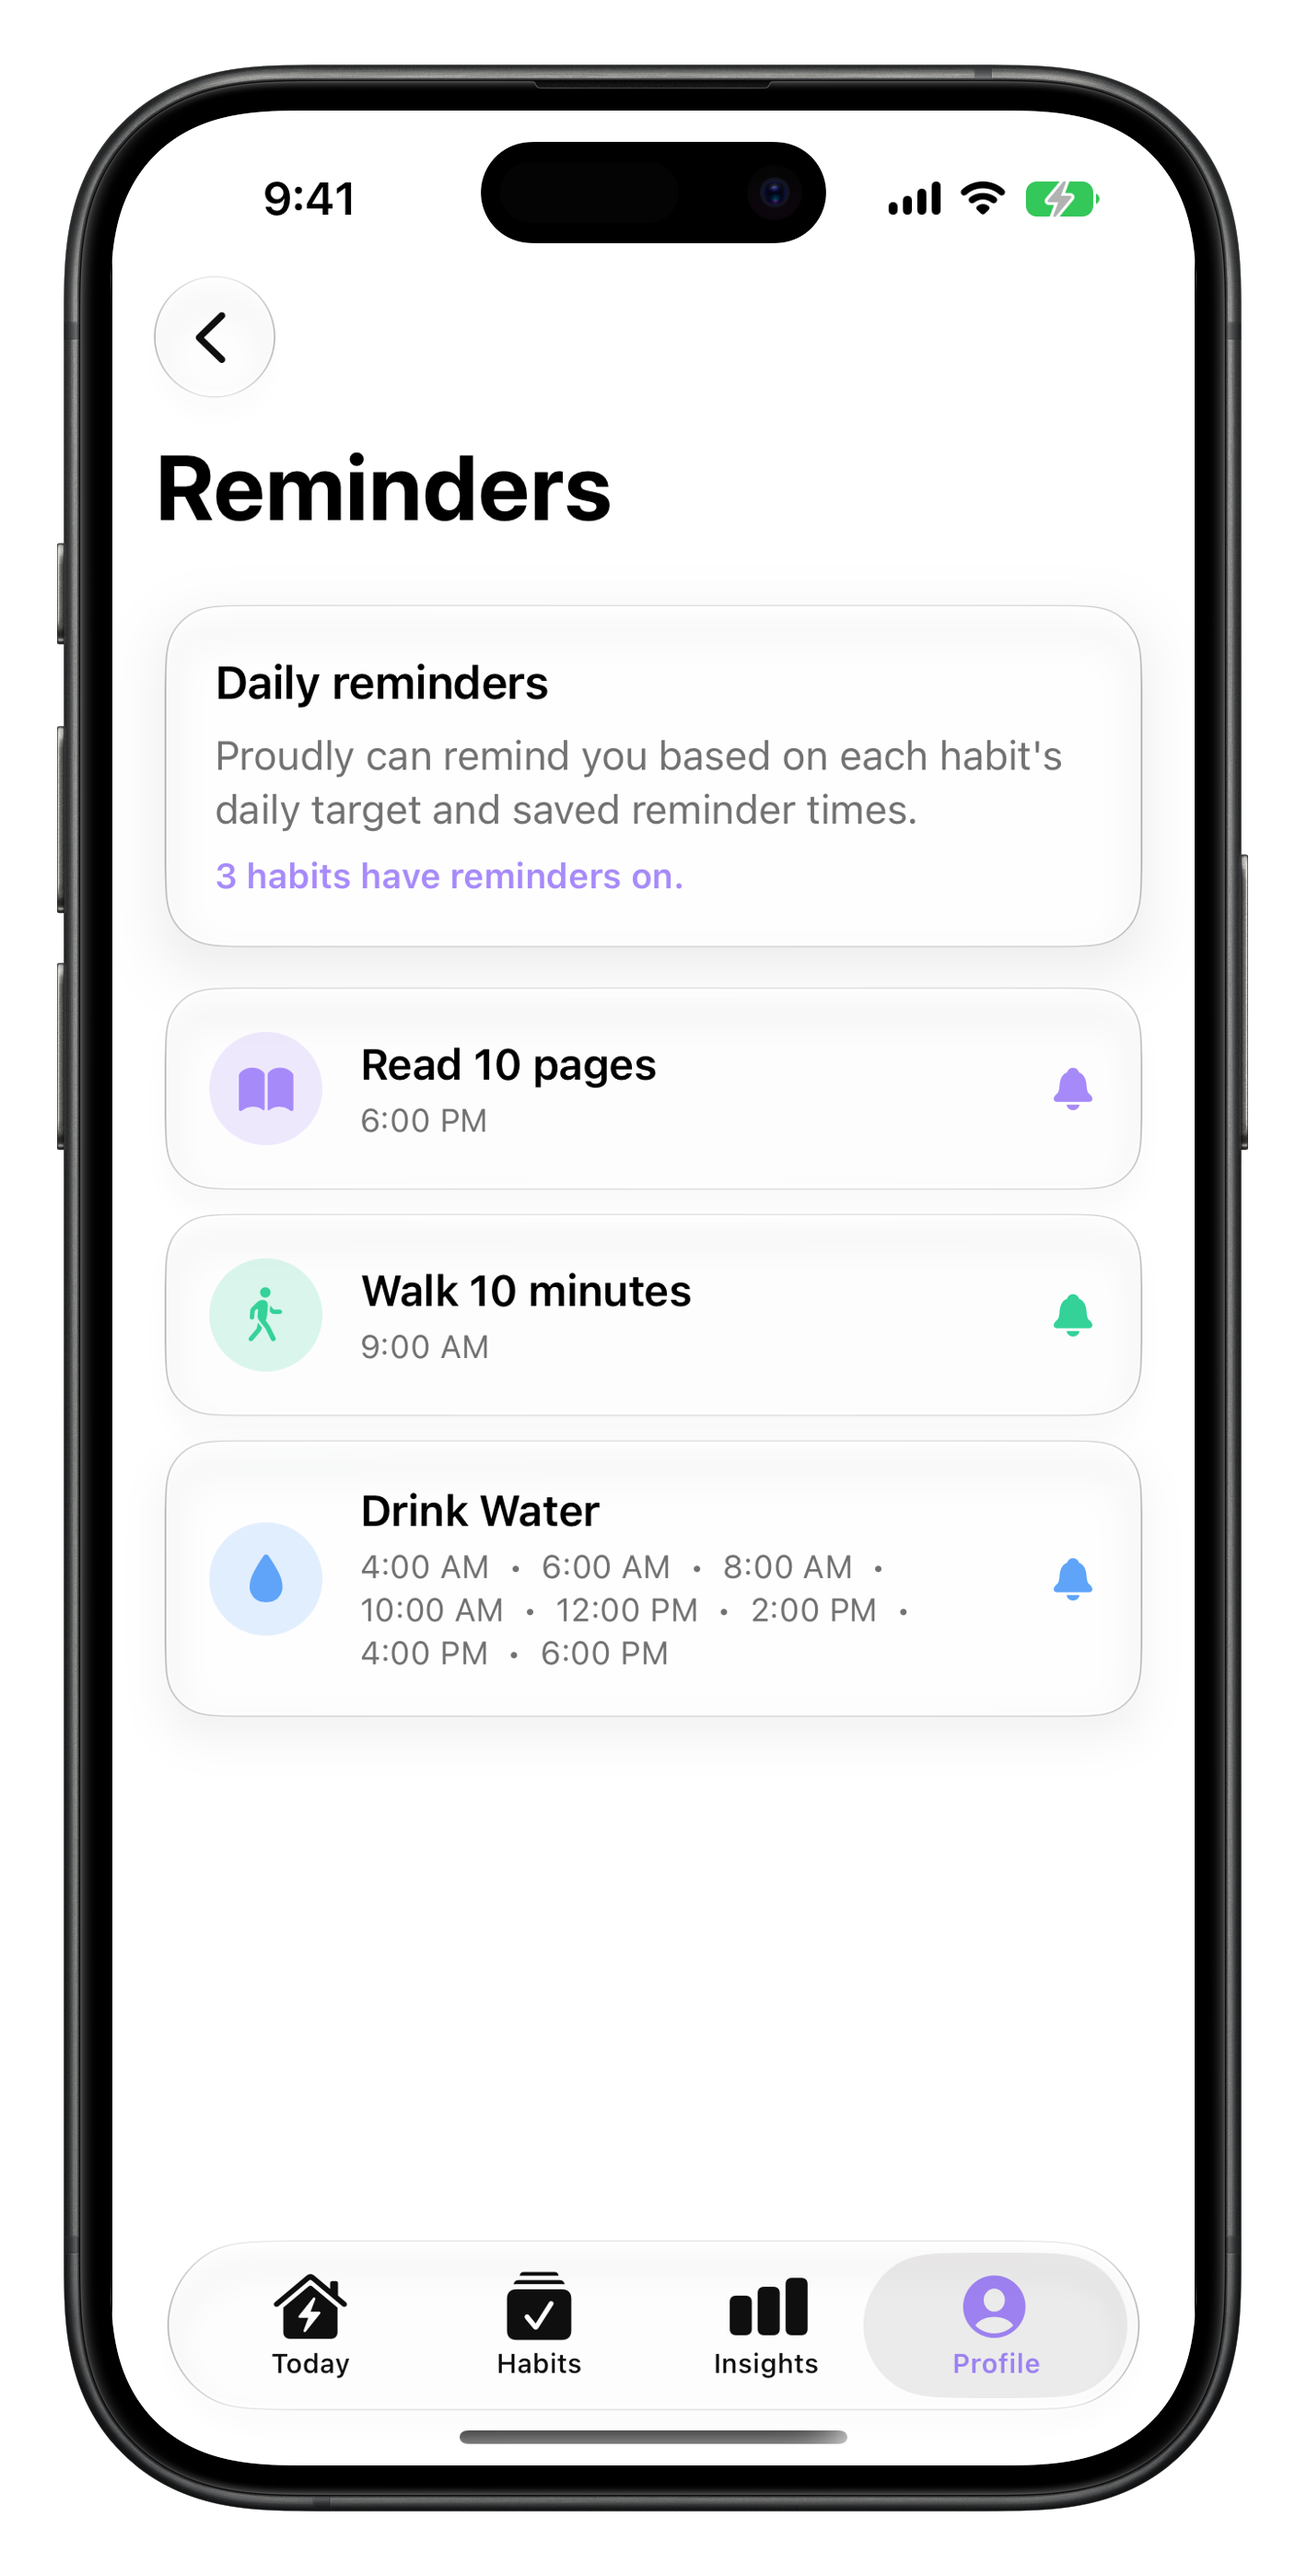
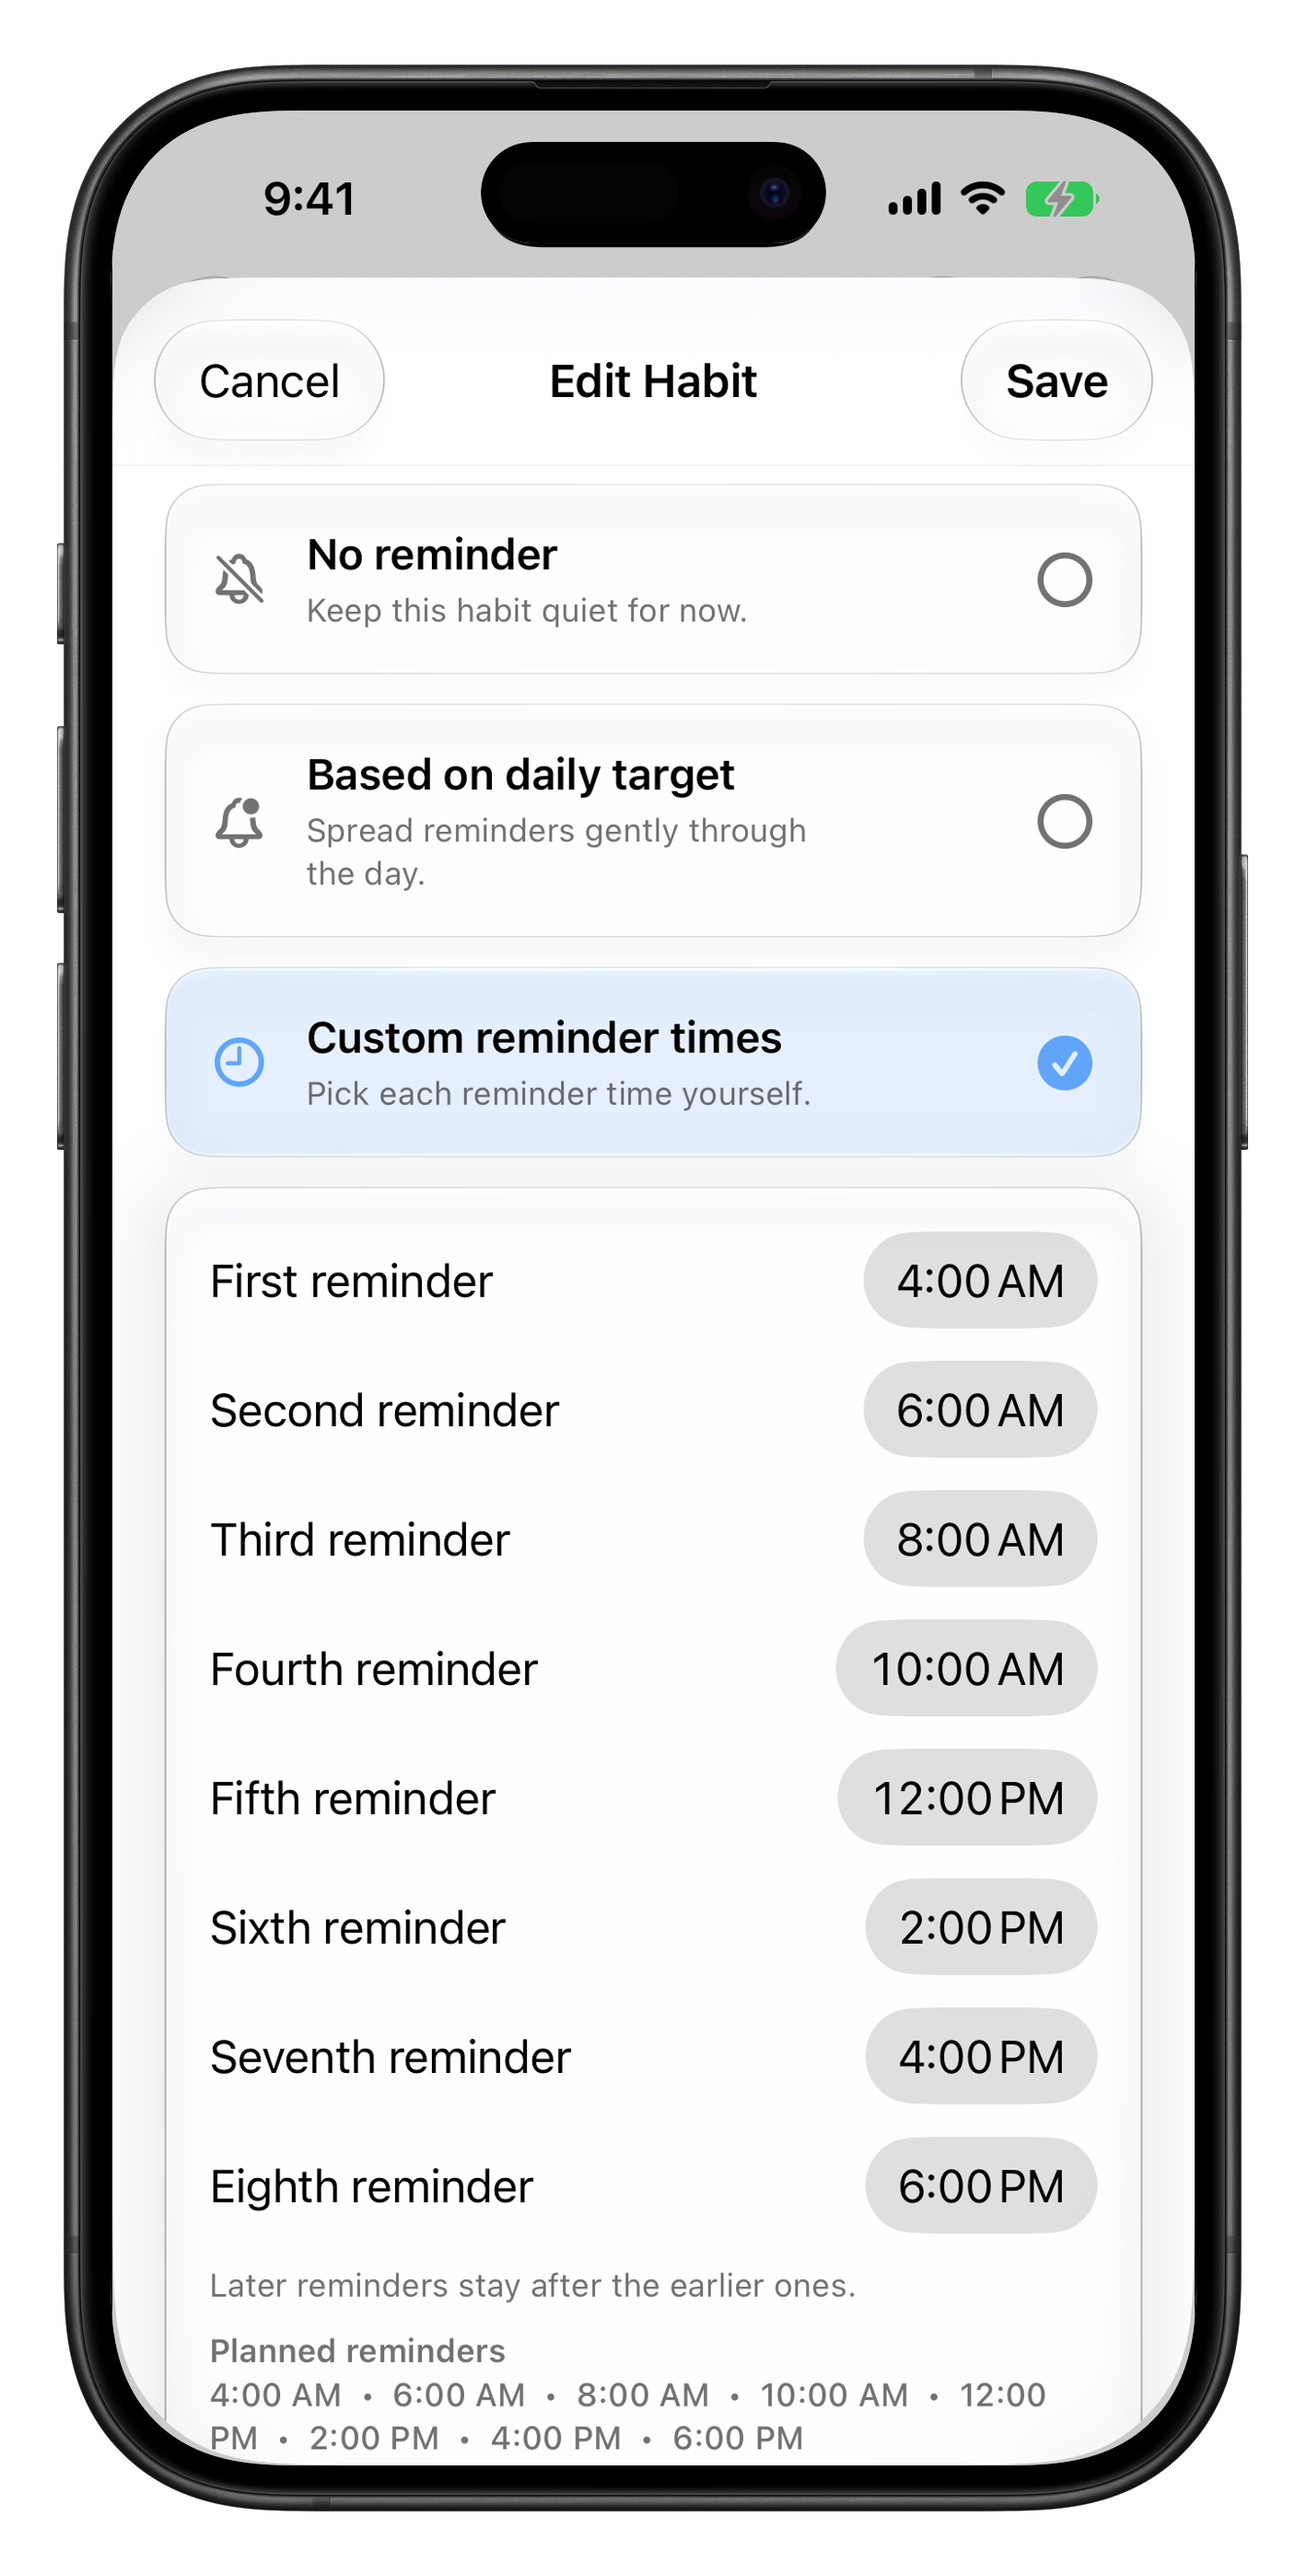
Update domain references, support email, and improve carousel responsiveness: - Replace URLs and emails with new `proudlyhabit.com` domain. - Refactor carousel for better layout handling, touch actions, and mobile interactivity. - Adjust component styling and layout for improved responsiveness.

diff --git a/apps/site/components/landing/apple-style-feature-carousel-client.tsx b/apps/site/components/landing/apple-style-feature-carousel-client.tsx
@@ -4,6 +4,7 @@ import * as React from "react";
 import { ProgressiveImage } from "@/components/common/progressive-image";
 import {
   Carousel,
+  type CarouselApi,
   CarouselContent,
   CarouselItem,
   CarouselNext,
@@ -12,6 +13,14 @@ import {
 } from "@/components/ui/carousel";
 import { deviceBlurDataURL } from "@/lib/image-placeholders";
 import { cn } from "@/lib/utils";
+
+const CAROUSEL_OPTS = {
+  align: "start" as const,
+  containScroll: false as const,
+  dragFree: false,
+  loop: false,
+  watchDrag: true,
+};
 
 type CarouselFeatureItem = {
   altName: string;
@@ -118,54 +127,114 @@ export function AppleStyleFeatureCarouselClient({
 }: {
   items: CarouselFeatureItem[];
 }) {
-  const [isMobile, setIsMobile] = React.useState(false);
+  const [api, setApi] = React.useState<CarouselApi>();
+  const [layoutWidth, setLayoutWidth] = React.useState<{
+    carouselWidth?: number;
+    controlsWidth: number;
+    innerWidth?: number;
+  }>({
+    carouselWidth: undefined,
+    controlsWidth: 350,
+    innerWidth: undefined,
+  });
 
   React.useEffect(() => {
-    const mediaQuery = window.matchMedia("(max-width: 767px)");
+    if (!api) return;
+    const root = api.rootNode();
+    if (root) {
+      root.style.touchAction = "pan-y";
+    }
+    api.reInit();
+  }, [api]);
 
-    const updateIsMobile = () => {
-      setIsMobile(mediaQuery.matches);
+  React.useEffect(() => {
+    const updateLayoutWidth = () => {
+      const { innerWidth } = window;
+
+      if (innerWidth < 1024) {
+        setLayoutWidth({
+          carouselWidth: undefined,
+          controlsWidth: 350,
+          innerWidth,
+        });
+      } else {
+        setLayoutWidth({
+          carouselWidth: (innerWidth * 1820) / 2560,
+          controlsWidth: (innerWidth * 350) / 2560,
+          innerWidth,
+        });
+      }
+
+      api?.reInit();
     };
 
-    updateIsMobile();
-    mediaQuery.addEventListener("change", updateIsMobile);
+    updateLayoutWidth();
+    window.addEventListener("resize", updateLayoutWidth);
 
     return () => {
-      mediaQuery.removeEventListener("change", updateIsMobile);
+      window.removeEventListener("resize", updateLayoutWidth);
     };
-  }, []);
+  }, [api]);
 
   return (
     <div className="w-full">
-      <div className="mr-0 ml-auto flex max-w-455 flex-col gap-6 px-6 md:pr-0">
+      <div
+        className="mr-0 ml-auto flex flex-col gap-6 px-6 lg:px-0 2xl:px-6 2xl:pr-0"
+        style={{
+          maxWidth: "100%",
+          width: layoutWidth.carouselWidth
+            ? `${layoutWidth.carouselWidth}px`
+            : undefined,
+        }}
+      >
         <Carousel
           aria-label="Supporting Proudly features"
           className="w-full"
-          opts={{
-            align: "start",
-            containScroll: "trimSnaps",
-            dragFree: false,
-            watchDrag: isMobile,
-            loop: false,
-          }}
+          opts={CAROUSEL_OPTS}
+          setApi={setApi}
         >
-          <CarouselContainer items={items} />
+          <CarouselContainer
+            api={api}
+            controlsWidth={layoutWidth.controlsWidth}
+            innerWidth={layoutWidth.innerWidth}
+            items={items}
+          />
         </Carousel>
       </div>
     </div>
   );
 }
 
-function CarouselContainer({ items }: { items: CarouselFeatureItem[] }) {
-  const { api } = useCarousel();
+function CarouselContainer({
+  items,
+  controlsWidth,
+  api,
+  innerWidth,
+}: {
+  items: CarouselFeatureItem[];
+  controlsWidth: number;
+  api: CarouselApi | undefined;
+  innerWidth: number | undefined;
+}) {
+  const isMobile = innerWidth !== undefined && innerWidth < 1024;
+  useCarousel(); // keep context alive for CarouselPrevious / CarouselNext
   const [selectedIndex, setSelectedIndex] = React.useState(0);
   const visibleItems = items.slice(0, -1);
+  const lastRealIndex = visibleItems.length - 1;
 
   React.useEffect(() => {
     if (!api) return;
 
     const onSelect = () => {
-      setSelectedIndex(api.selectedScrollSnap());
+      const nextIndex = api.selectedScrollSnap();
+
+      if (nextIndex > lastRealIndex) {
+        api.scrollTo(lastRealIndex);
+        setSelectedIndex(lastRealIndex);
+        return;
+      }
+
+      setSelectedIndex(nextIndex);
     };
 
     onSelect();
@@ -176,28 +245,29 @@ function CarouselContainer({ items }: { items: CarouselFeatureItem[] }) {
       api.off("select", onSelect);
       api.off("reInit", onSelect);
     };
-  }, [api]);
+  }, [api, lastRealIndex]);
 
-  const disableNext = selectedIndex >= items.length - 2;
+  const disableNext = selectedIndex >= lastRealIndex;
 
   return (
     <>
-      <CarouselContent className="-ml-5 md:-ml-6">
+      <CarouselContent className="">
         {items.map((item, index) => {
           const isLastItem = index === items.length - 1;
 
+          if (isLastItem && isMobile) return null;
+
           return (
             <CarouselItem
+              aria-hidden={isLastItem}
               className={cn(
-                "flex pl-5 md:basis-[82%] md:pl-6 lg:basis-[66%] xl:basis-[60%] 2xl:basis-[58%]",
-                isLastItem ? "hidden md:flex md:pl-0" : "",
+                "flex pl-4.5 lg:basis-[60%] xl:basis-[60%] xl:pl-8 2xl:basis-[58%]",
+                isLastItem ? "hidden lg:flex" : "",
               )}
               key={item.altName}
             >
-              {isLastItem ? (
-                <></>
-              ) : (
-                <article className="grid w-full overflow-hidden rounded-[2rem] border border-gray bg-white/70 backdrop-blur-2xl md:min-h-[42rem] lg:grid-cols-[0.92fr_1.08fr] dark:border-white/10 dark:bg-white/[0.06] dark:shadow-[0_24px_80px_rgba(0,0,0,0.35)]">
+              {isLastItem ? null : (
+                <article className="grid w-full overflow-hidden rounded-[2rem] border border-gray bg-white/70 backdrop-blur-2xl md:min-h-[42rem] 2xl:grid-cols-[0.92fr_1.08fr] dark:border-white/10 dark:bg-white/[0.06] dark:shadow-[0_24px_80px_rgba(0,0,0,0.35)]">
                   <div className="flex h-full flex-col justify-between p-7 sm:p-8 lg:p-12">
                     <div>
                       <p className="font-medium text-[0.75rem] uppercase tracking-[0.28em]">
@@ -230,8 +300,14 @@ function CarouselContainer({ items }: { items: CarouselFeatureItem[] }) {
         })}
       </CarouselContent>
 
-      <div className="mx-auto mt-6 flex max-w-87.5 flex-col justify-end gap-4 md:pr-10">
-        <div className="flex items-center justify-center gap-3 md:justify-end">
+      <div
+        className="mx-auto mt-6 flex flex-col justify-end gap-4 lg:pr-10"
+        style={{
+          maxWidth: "100%",
+          width: `${controlsWidth}px`,
+        }}
+      >
+        <div className="flex items-center justify-center gap-3 lg:justify-end">
           {visibleItems.map((item, index) => {
             const isActive = index === selectedIndex;
 
@@ -245,7 +321,10 @@ function CarouselContainer({ items }: { items: CarouselFeatureItem[] }) {
                     : "w-2.5 bg-[#D7D0E0] hover:bg-[#C7BDD6] dark:bg-white/18 dark:hover:bg-white/28",
                 )}
                 key={item.altName}
-                onClick={() => api?.scrollTo(index)}
+                onClick={() => {
+                  api?.scrollTo(index);
+                  setSelectedIndex(index);
+                }}
                 type="button"
               />
             );
@@ -253,8 +332,14 @@ function CarouselContainer({ items }: { items: CarouselFeatureItem[] }) {
         </div>
       </div>
 
-      <div className="mx-auto mt-6 flex max-w-87.5 flex-col justify-end gap-4 md:pr-10">
-        <div className="flex flex-col items-center gap-4 md:flex-row md:justify-end">
+      <div
+        className="mx-auto mt-6 flex flex-col justify-end gap-4 lg:pr-10"
+        style={{
+          maxWidth: "100%",
+          width: `${controlsWidth}px`,
+        }}
+      >
+        <div className="flex flex-col items-center gap-4 lg:flex-row lg:justify-end">
           <div className="flex items-center justify-center gap-3 md:justify-end">
             <CarouselPrevious
               aria-label="Previous feature"

diff --git a/apps/site/lib/seo.ts b/apps/site/lib/seo.ts
@@ -1,7 +1,7 @@
 import type { Metadata } from "next";
 
 export const siteUrl =
-  process.env.NEXT_PUBLIC_SITE_URL ?? "https://proudly.arnoldfederis.com";
+  process.env.NEXT_PUBLIC_SITE_URL ?? "https://proudlyhabit.com";
 
 export const SITE_NAME = "Proudly";
 export const APP_NAME = "Proudly: Habit Tracker";
@@ -11,7 +11,7 @@ export const SITE_DESCRIPTION =
   "Proudly is a gentle habit tracker for small wins. Track daily habits, celebrate progress, and build routines without pressure.";
 
 // TODO: Replace support email if the final address changes.
-export const SUPPORT_EMAIL = "support@arnoldfederis.com";
+export const SUPPORT_EMAIL = "support@proudlyhabit.com";
 
 // TODO: Replace with final App Store URL before launch.
 export const APP_STORE_URL = "#";

diff --git a/apps/site/app/support/page.tsx b/apps/site/app/support/page.tsx
@@ -9,7 +9,7 @@ export const metadata: Metadata = {
   description:
     "Get help with Proudly, the private screenshot search app for iPhone.",
   alternates: {
-    canonical: "https://proudly.arnoldfederis.com/support",
+    canonical: "https://proudlyhabit.com/support",
   },
   openGraph: {
     title: "Support - Proudly",
@@ -93,7 +93,7 @@ export default function SupportPage() {
           </div>
           <a
             className={buttonVariants({ size: "sm" })}
-            href="mailto:support@arnoldfederis.com"
+            href="mailto:support@proudlyhabit.com"
           >
             Send email
           </a>

diff --git a/apps/site/next.config.ts b/apps/site/next.config.ts
@@ -7,9 +7,7 @@ const nextConfig: NextConfig = {
   images: {
     qualities: [85],
     formats: ["image/webp"],
-    remotePatterns: [
-      { protocol: "https", hostname: "**.proudly.arnoldfederis.com" },
-    ],
+    remotePatterns: [{ protocol: "https", hostname: "**.proudlyhabit.com" }],
   },
 };
 
